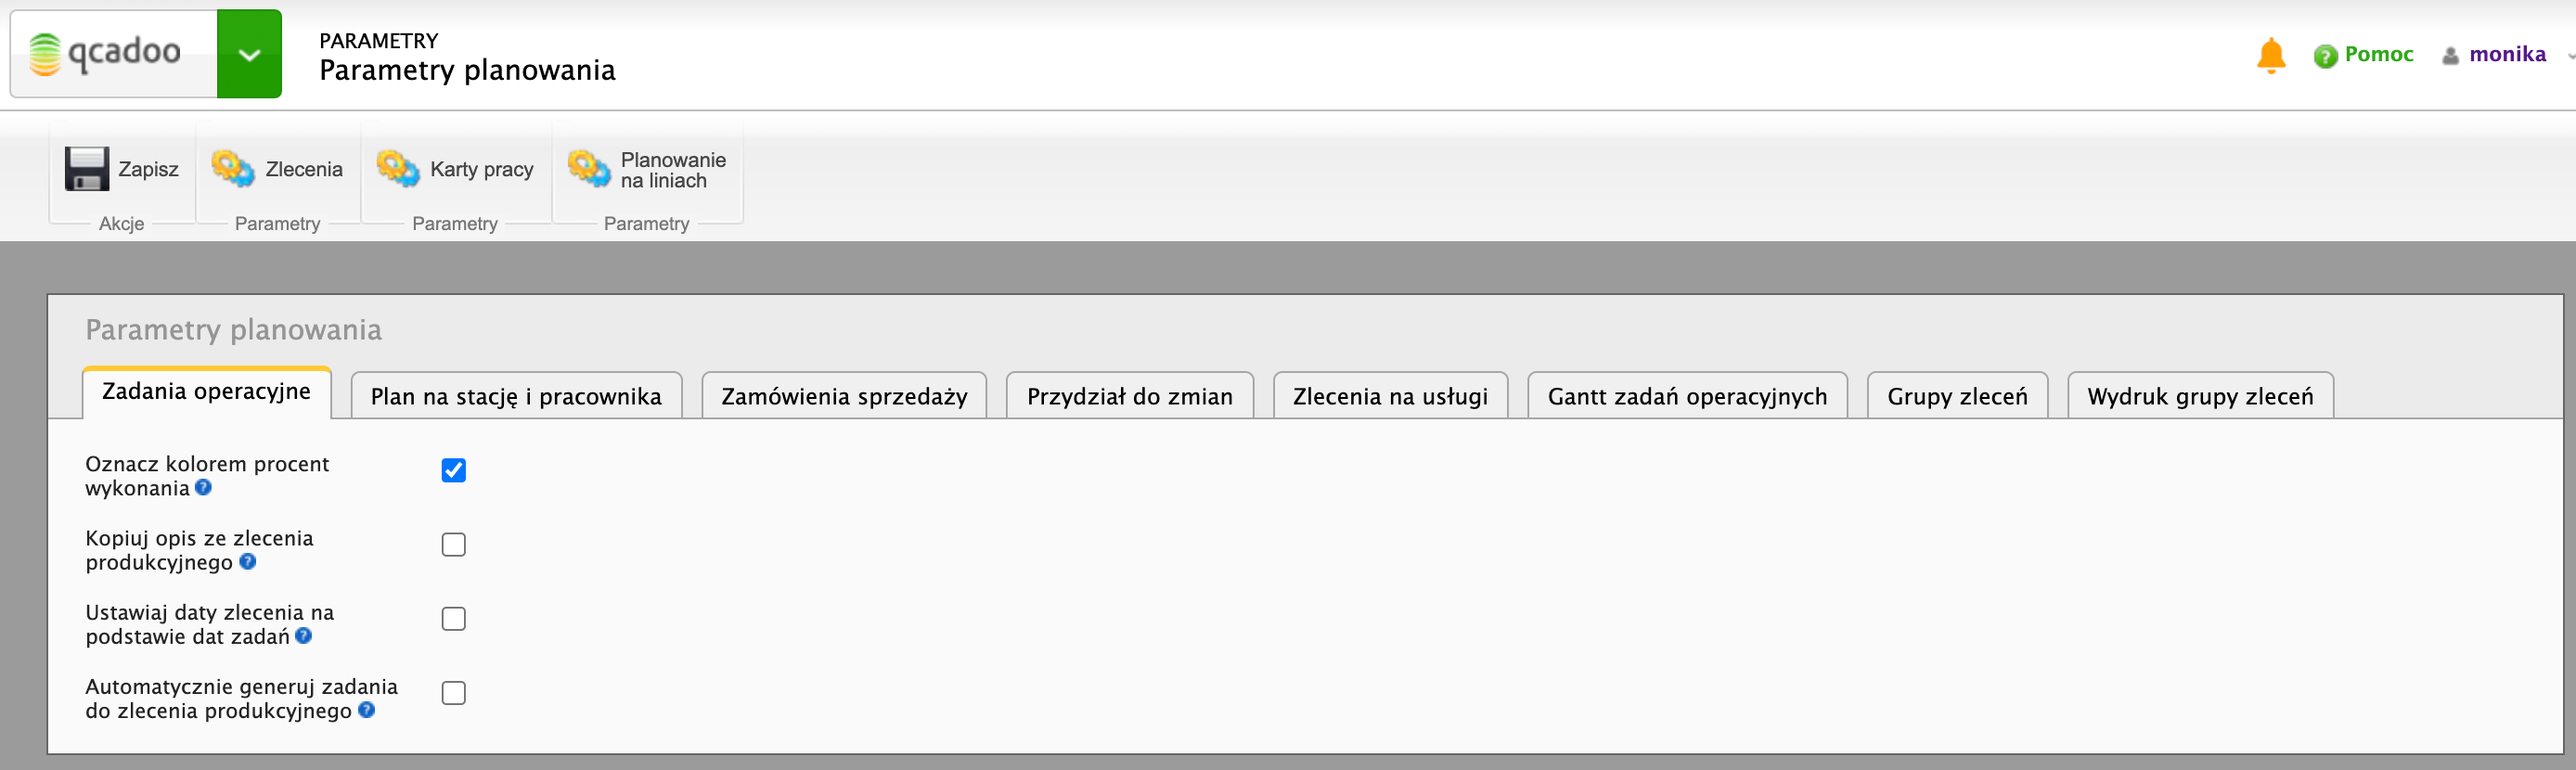
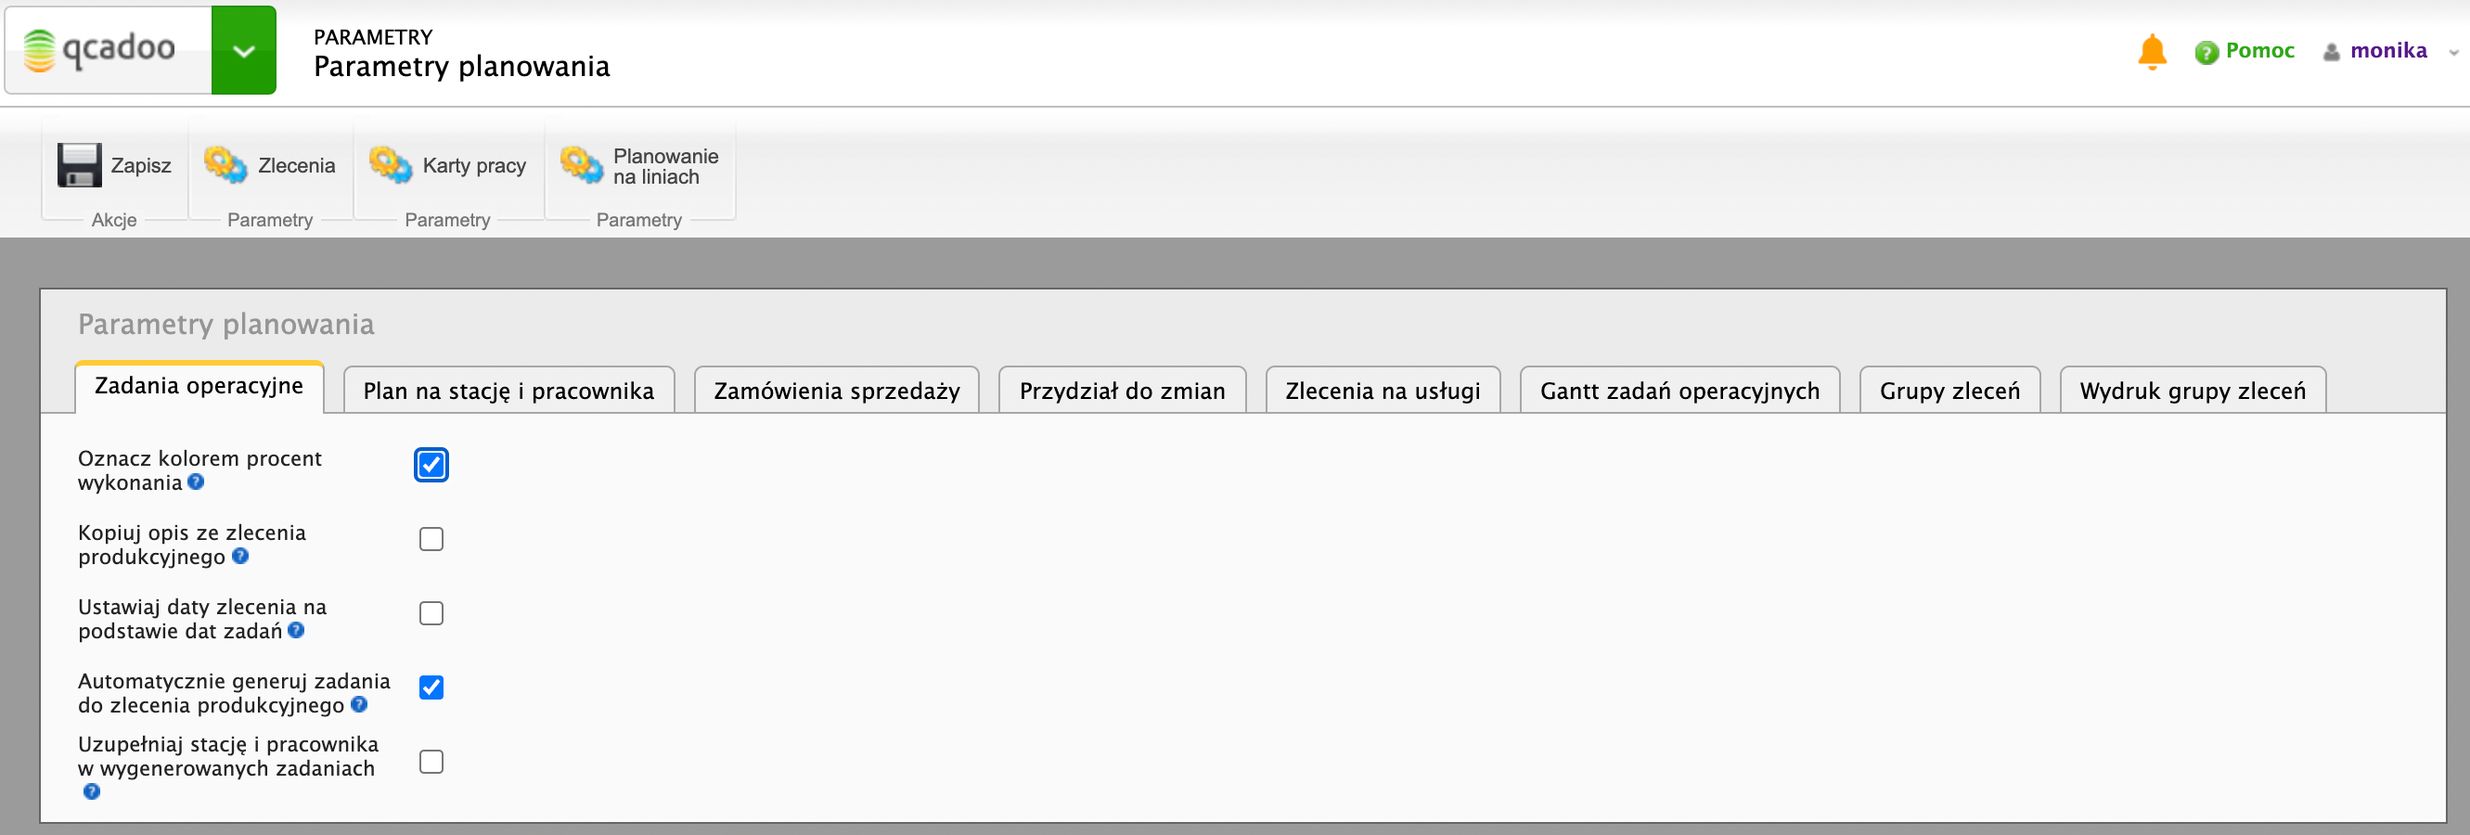
sprint 2.3.0

diff --git a/pages/technologie/technologie/technologie-szczegoly.md b/pages/technologie/technologie/technologie-szczegoly.md
@@ -6,7 +6,7 @@ Do każdego produkowanego w Twojej firmie wyrobu kompletujemy osobną technologi
 
 ## Dodanie nowej technologii
     
-**TECHNOLOGIE > Technologie** {% include inline_image.html file="newIcon24.png" alt="Przycisk Dodaj nową technologię" %} **Dodaj nowy**
+**Technologie > Technologie** {% include inline_image.html file="newIcon24.png" alt="Przycisk Dodaj nową technologię" %} **Dodaj nowy**
 
 {% include lightbox.html file="technologie-technologia-główna.png" alt="Formularz technologii" caption="Formularz technologii" class="float-right" %}
 
@@ -83,7 +83,7 @@ Po zaznaczeniu operacji w drzewie uzupełnione zostają tabelki z produktami wej
 Produkt wejściowy możesz oznaczyć dodatkowym [typem](/typy-produktu-wejsciowego). Niesie to następujące korzyści: 
 - pracownik lepiej potrafi zidentyfikować surowiec zużywany
 - możesz zapisać technologię szablonową, gdy nie znamy dokładnego indeksu materiału. Wiesz np. że będziesz zużywać blachę i w jakiej ilości, ale nie wiesz dokładnie, którą. Takie zapisanie produktu wejściowego, z samym typem i ilością, pozwoli dodatkowo na przygotowanie kalkulacji kosztów i ustalenie wyceny w oparciu o średnią cenę zapisaną w typie produktu wejściowego technologii
-- jeśli przygotowujesz technologię dla rodziny produktu możesz wskazać, że dla danego typu produktu wejściowego, w zależności od grupy rozmiarowej mają być używane różne surowce.
+- jeśli przygotowujesz technologię dla rodziny produktu możesz wskazać, że dla danego typu produktu wejściowego, w zależności od grupy rozmiarowej mają być używane różne surowce (albo ten sam surowiec, ale w zależności od grupy rozmiarowej - w innej ilości).
 
 #### Różne produkty wejściowe technologii w zależności od rozmiarów
 
@@ -249,6 +249,11 @@ O nieprawidłowościach poinformujemy Cię komunikatami. Mogą pojawić się nas
 
 5. **"Produkt wyjściowy końcowej operacji, musi być taki sam jak produkt dla którego zdefiniowano technologię."** --> oznacza to, że produkt wyjściowy najwyższej operacji w drzewie nie zgadza się z produktem, dla którego technologie budujesz (uzupełniony w zakładce Główna). Ustal, który z tych produktów jest prawidłowy i popraw dane. Jeśli będziesz poprawiać produkt w zakładce Główna, to zwróć uwagę, że na jego podstawie został nadany numer i nazwa. Zmiana produktu tych danych nie zmieni. Zatem polecam najpierw wyczyścić numer i nazwę, a dopiero wybrać nowy produkt - numer i nazwa zostaną na nowo określone.
 
+6. **Produkty wg rozmiarów możemy podać tylko gdy technologia budowana jest na rodzinę produktu.** --> oznacza to, że produkt, dla którego tworzona jest technologia nie jest rodziną produktu. A tylko dla rodziny możemy rozpisać produkty wg rozmiaru. Ustal, czy produkt na pewno ma być rodziną, jeśli tak, to zmień wartość pola "Reprezentuje" w produkcie na "rodzinę produktu". Jeśli jest to konkretny produkt, to usuń w technologii produkt wejściowy z Rozmiar = tak. Albo odznacz w nim parametr: Różne produkty w różnych rozmiarach. I jeszcze jak do tego mogło dojść:
+- albo w trakcie tworzenia technologii została zmieniona wartość pola Reprezentuje w produkcie
+- albo technologia produktu rodziny została skopiowana przy okazji tworzenia technologii na konkretny produkt 
+- albo technologia produktu rodziny została wykorzystana do utworzenia nowych, na konkretne produkty, z poziomu generatora
+
 
 Jeśli mamy pewność wprowadzonych danych możemy od razu nadać jej status {% include inline_image.html file="startIcon24.png" alt="Akceptacja" %} **Zaakceptowana**. Tylko zaakceptowane technologie mogą zostać użyte w zleceniu produkcyjnym.
 
@@ -293,6 +298,18 @@ W tabeli operacji uzupełniła się informacja o liście. Jeśli zaznaczysz tą 
 ## Zakładka "Minimalna ilość" ##
     
 W tej zakładce wpisujemy minimalną ilość jaką opłaca się nam produkować. Jest to istotne z punktu widzenia Zlecenia produkcyjnego, ponieważ jeśli uruchomimy zlecenie na mniejszą ilość niż opłacalna, program poinformuje nas o tym, aby ostrzec przed popełnieniem ewentualnego błędu.
+
+## Dodatkowe opcje 
+
+W widoku szczegółów technologii dostępne są następujące dodatkowe opcje:
+
+1. **Generuj strukturę wyrobu** - funkcja rozrysuje drzewo technologii, łącznie z produktami wejściowymi, działami, normami czasowymi. Jeśli dla produktów wejściowych istnieją technologie, to zostaną one podpięte do drzewa jak technologie na komponent i cała struktura będzie prezentowała pełną produkcję, od wytworzenia wszelkich komponentów aż po uzyskanie produktu finalnego danej technologii. Funkcja dostępna dla technologii sprawdzonej i zaakceptowanej.
+
+2. **Zatwierdź szablon** - tworzona przez Ciebie technologia może być szablonem, który inny pracownicy wykorzystają do tworzenia technologii właściwych. Zaznacz pole **szablon** w zakładce Główna, a po ukończeniu tworzenia kliknij przycisk **Zatwierdź szablon**. Dzięki temu nie będzie można technologii edytować (aby była możliwość trzeba kliknąć przycisk **Przejdź do edycji szablonu**). Pamietaj, że szablon może być zatwierdzony nawet wówczas, gdy technologia nie jest kompletna - np. produkt wejściowy może zawierać tylko typ produktu wejściowego i ilość.
+
+3. **Pokaż ceny** - funkcja pozwala na podejrzenie jakie są koszty materiałów zawartych w technologii. Źródłem danych są koszty produktu - tu zebrane są do jednej tabeli, więc łatwo je przeanalizować.
+
+4. **Utwórz kartę modelu** - funkcja tworzy [kartę modelu](/karta-modelu) na produkt finalny technologii w ilości 1. Wystarczy tylko wygenerować i wydrukować.
 
 ---
 

diff --git a/pages/parametry/parametry-ogolne/parametry-dashboard.md b/pages/parametry/parametry-ogolne/parametry-dashboard.md
@@ -36,11 +36,13 @@ Zatwierdzona produkcja, to ta ilość wyprodukowana, która pochodzi z zaakcepto
 
 5. **Pokaż opis zlecenia lub zadania** - zaznacz parametr jeśli chcesz, aby na kafelku pojawiał się opis zlecenia lub zadania operacyjnego. Wówczas, nawet, gdy opis nie jest wypełniony, na kafelku pojawi się labelka 'opis'. 
 
-6. **Parametry dodawania zleceń i zadań** - ich wypełnienie jest niezbędne, gdy chcesz korzystać z szybkiego dodawania zleceń / zadań z dashboardu wraz z tworzeniem technologii w tle. Uzupełnij:
+6. **Sortowanie zleceń** - wskaż czy chcesz mieć poukładane zlecenia na dashboardzie wg daty rozpoczęcia czy daty zakończenia
+
+7. **Parametry dodawania zleceń i zadań** - ich wypełnienie jest niezbędne, gdy chcesz korzystać z szybkiego dodawania zleceń / zadań z dashboardu wraz z tworzeniem technologii w tle. Uzupełnij:
 - _operacja_ - pole będzie aktywne, gdy na dashboardzie będą widoczne zlecenia produkcyjne i zlecenia będą z niego dodawane. Zakładamy, że utworzymy dla Ciebie w tle jednooperacyjną technologię. Wskaż jaka operacja ma być w niej uzupełniona (jeśli używasz tej opcji, to zapewne nie interesuje Cię wyodrębnianie każdej czynności, jaka jest konieczna do realizacji w procesie produkcyjnym. Załóż [operację](/operacje) bardzo ogólną, np. produkcja i ją podepnij w parametrach).
 - _magazyn pobrania surowców_ - wskaż z jakiego magazynu pobierasz surowce do produkcji. Uzupełnimy nim technologię, którą założymy do zlecenia dodawanego z dashboardu
 - _magazyn przyjmowania wyrobów_ - wskaż na jaki magazyn będziesz przyjmował wytworzone wyroby. Uzupełnimy nim technologię, którą założymy do zlecenia dodawanego z dashboardu
 
-{:start="7"}
+{:start="8"}
 
-7. **Przyciski szybkiego wybierania** - w tabeli znajdziesz listę przycisków, z których możesz wybrać maksymalnie 6. Pokażemy je na dashboardzie - dzięki temu szybko będziesz mógł przejść do ulubionych funkcjonalności. Wejdź do szczegółów danego przycisku (wiersza w tabeli) i zaznacz parametr _Widoczność_. Możesz ponadto ustawić kolejność prezentacji przycisków - zaznacz wiersz i przesuń w odpowiednie miejsce strzałką umieszczoną nad tabelą. Przyciski na dashboardzie umieszczone są w dwóch kolumnach, po 3 elementy (wypełniamy pierwszą kolumnę i przechodzimy dopiero do kolejnej - jeśli wybierzesz 4 elementy, to będziesz mieć 3 przyciski w lewej kolumnie i 1 w prawej). 
+8. **Przyciski szybkiego wybierania** - w tabeli znajdziesz listę przycisków, z których możesz wybrać maksymalnie 6. Pokażemy je na dashboardzie - dzięki temu szybko będziesz mógł przejść do ulubionych funkcjonalności. Wejdź do szczegółów danego przycisku (wiersza w tabeli) i zaznacz parametr _Widoczność_. Możesz ponadto ustawić kolejność prezentacji przycisków - zaznacz wiersz i przesuń w odpowiednie miejsce strzałką umieszczoną nad tabelą. Przyciski na dashboardzie umieszczone są w dwóch kolumnach, po 3 elementy (wypełniamy pierwszą kolumnę i przechodzimy dopiero do kolejnej - jeśli wybierzesz 4 elementy, to będziesz mieć 3 przyciski w lewej kolumnie i 1 w prawej). 

diff --git a/pages/planowanie/zlecenia-produkcyjne/zlecenia-produkcyjne.md b/pages/planowanie/zlecenia-produkcyjne/zlecenia-produkcyjne.md
@@ -219,7 +219,7 @@ Więcej informacji znajdziesz [tutaj](/ceny-materialow-dla-zlecenia)
 
 14. **przycisk Śledzenie partii** - jedno słowo - traceability. Chcesz więcej? Odsyłam do [dokumentacji](/sledzenie-partii-zlecenia).
 
-15. **przycisk Dostępność surowców** - pozwala na analizę stanów magazynowych surowców potrzebnych do produkcji. Sprawdzisz stan na magazynach, z których zaplanowano rozchód, ale też na pozostałych magazynach zakładu - na wypadek, gdyby trzeba było produktu poszukiwać.
+15. **przycisk Dostępność surowców** - pozwala na analizę stanów magazynowych surowców potrzebnych do produkcji. Sprawdzisz stan na magazynach, z których zaplanowano rozchód, ale też na pozostałych magazynach zakładu - na wypadek, gdyby trzeba było produktu poszukiwać. Możesz z tego miejsca przejść też do listy zasobów na magazynie. Dzięki temu ustalisz szczegóły jak: dostępne partie, lokalizacja (miejsca składowania), data ważności zasobów itp.
 
 16. **przycisk Wydania wewnętrzne** - temat wydań wewnętrznych omówiony jest [tutaj](/wydania-wewnetrzne.html). Z tego poziomu możesz zobaczyć wydania utworzone dla danego zlecenia
 
@@ -246,6 +246,7 @@ W jaki sposób przekazać informację pracownikom o tym co mają wykonać:
 2. [karty pracy](/karty-pracy) - dostępne są dwa szablony wydruku. Dodatkowo możliwa jest ich konfiguracja w [parametrach](/parametry-karty-pracy).
 3. wyeksportowana lista zleceń - poukrywaj zbędne kolumny i [przerzuć dane go Excela lub PDFa](/eksport-danych), i w takiej formie przekaż dane pracownikom 
 4. Gantt - daj pracownikom dostęp do qcadoo i pokaż jak działa [planowanie na liniach](//planowanie-na-liniach) (jeśli planujesz całe zlecenia) lub [Gantt zadań operacyjnych](/gantt-zadan-operacyjnych) (jeśli planujesz każdą operację do wykonania)
+5. [dashboard](/dashboard) - wskaż w [parametrach](/parametry-dashboard) czy chcesz widzieć zadania czy zlecenia i zdecyduj którzy użytkownicy mają mieć dostęp pełen (łącznie z edycją zlecenia), a którzy w formie ograniczonej (tylko z przesuwaniem między obszarami, przejściem do terminala i wydrukiem etykiet).
 
 
 ## Efekty raportowania wykonanej produkcji

diff --git a/pages/planowanie/przydzial-do-zmian.md b/pages/planowanie/przydzial-do-zmian.md
@@ -7,7 +7,7 @@ Dzięki tej funkcji możesz rozplanować przydział pracowników do zmian na lin
 
 ## Dodanie nowego przydziału do zmian
 
- **PLANOWANIE Przydział do zmian** {% include inline_image.html file="newIcon24.png" alt="Przycisk Dodaj nowy wydruk" %} **Dodaj nowy**
+ **Planowanie > Przydział do zmian** {% include inline_image.html file="newIcon24.png" alt="Przycisk Dodaj nowy wydruk" %} **Dodaj nowy**
 
 {% include lightbox.html file="Planowanie-%20przydzia%C5%82%20do%20zmian-%20G%C5%82%C3%B3wna-%20strza%C5%82ki.png" alt="Formularz przydziału do zmian" caption="Formularz przydziału do zmian" class="float-right" %}
 
@@ -17,7 +17,7 @@ Dzięki tej funkcji możesz rozplanować przydział pracowników do zmian na lin
 4. Następnie kliknij  {% include inline_image.html file="saveIcon24.png" alt="Przycisk Zapisz" %} **Zapisz**, aby zapisać wprowadzone dane.
 5. Teraz przy użyciu przycisku {% include inline_image.html file="newIcon16.png" alt="Przycisk Nowy" %} **Nowy** zacznij wprowadzać pracowników, których chcemy przypisać do danej "Zmiany".
 
-    {% include callout.html content="Jeżeli do tej samej linii produkcyjnej jest przypisanych wielu pracowników, nie musisz wprowadzać każdego z nich osobno. Skorzystaj z funkcji ![](/images/newIcon16.png) **Dodaj wielu pracowników**, która pozwala dodać wielu pracowników na raz." type="info" %}
+{% include callout.html content="Jeżeli do tej samej linii produkcyjnej jest przypisanych wielu pracowników, nie musisz wprowadzać każdego z nich osobno. Skorzystaj z funkcji ![](/images/newIcon16.png) **Dodaj wielu pracowników**, która pozwala dodać wielu pracowników na raz." type="info" %}
 
 {:start="6"}
 6. Po wprowadzeniu wszystkich informacji wybierz {% include inline_image.html file="startIcon24.png" alt="Przycisk Zaakceptuj" %} **Zaakceptuj**.

diff --git a/pages/kalendarze/wyjatki-dla-linii.md b/pages/kalendarze/wyjatki-dla-linii.md
@@ -44,5 +44,15 @@ Teraz wyobraźmy sobie inną sytuację. Mamy bardzo dużo zamówień i niestety 
 
 {% include lightbox.html file="Planowanie-%20wyjatek%20praca.png" alt="Wyjątek typu praca" caption="Wyjątek typu praca" %}
 
+## Powielanie wyjątków
 
+Jeśli codziennie od 10:00 do 10:30 produkcja ma przerwę śniadaniową, albo co poniedziałek między 07:00 a 09:00 wszyscy mają spotkanie organizacyjne, warto zadbać o naniesienie tych informacji do kalendarza. Aby przyspieszyć pracę możesz skorzystać z funkcji powielania wyjątków. Dodaj pierwszy wyjątek, standardowo, tak jak opisano wyżej. I kliknij przycisk {% include inline_image.html file="przyciskPowielWyjatek.png" alt="Przycisk Powiel wyjątek" %} **Powiel wyjątek**
+
+{% include lightbox.html file="kalendarzeWyjatkiDlaLiniiPowielanie.png" alt="Powielanie wyjatku" caption="Powielanie wyjątku" %}
+
+Wskaż:
+- **rodzaj powielenia** - czyli czy dany wyjątek ma występować codziennie, co tydzień, co miesiac, czy co rok
+- **datę zakończenia** - czyli do jakiej daty wyjątek ma zostać założony. Zastanów się, czy warto od razu generować wyjątki do "końca świata". Jeśli okaże się, że za dwa lata przerwa obiadowa będzie krótsza, będziesz miał sporo wyjątków do usunięcia. Lepiej funkcję wykonywać wielokrotnie co jakiś czas.
+
+Wyjątki wygenerują się po kliknięciu przycisku **Wykonaj**.
     

diff --git a/pages/parametry/parametry-planowania/parametry-planowania.md b/pages/parametry/parametry-planowania/parametry-planowania.md
@@ -20,6 +20,7 @@ Stosujemy trzy kolory:
 2. **Kopiuj opis ze zlecenia produkcyjnego** - zaznacz parametr, a opis każdego zadania operacyjnego tworzonego do zlecenia, będzie uzupełniony o opis ze zlecenia produkcyjnego. Może on zatem stanowić połączenie opisu operacji i opisu zlecenia.
 3. **Ustawiaj daty zlelcenia na podstawie dat zadań** - zaznacz parametr, a zmiana dat w zadaniu operacyjnym będzie się wiązała z przeliczeniem dat w powiązanym zleceniu produkcyjnym
 4. **Automatycznie generuj zadania do zlecenia produkcyjnego** - jeśli zaznaczysz parametr to w momencie akceptacji zlecenia produkcyjnego raportowanedo z dokładnością do operacji zostaną wygenerowane zadania operacyjnego. Nie będziesz musiał klikać każdorazowo przycisku: Utwórz zadania operacyjne. Pamiętaj jednak, że zadania operacyjne mogą tworzyć się też na zatwierdzaniu planu na stację roboczą i pracownika - sprawdź [tutaj](/plan-na-stacje-robocza-i-pracownika) czy jest to funkcja dla Ciebie.
+5. **Uzupełniaj stację i pracownika w wygenerowanych zadaniach** - jeśli zaznaczysz parametr, to dla operacji powiązanej z zadaniem ustalimy przypisane stacje. I jeśli jest tylko jedna, to uzupełnimy nią zadanie operacyjne. A jeśli stacja ta ma domyślnego pracownika, to w zadaniu wpiszemy również tego pracownika.
 
 ---
 

diff --git a/pages/planowanie/plany-sprzedazy.md b/pages/planowanie/plany-sprzedazy.md
@@ -168,3 +168,13 @@ Aby móc zamówić dobre materiały do planu i aby móc we właściwy sposób wy
 
 Wskaż **nową technologię** i **zaktualizuj**. W efekcie w zaznaczonych produktach zostanie zmieniona technologia. Zmianę możesz przeprowadzić wielokrotnie, pamiętajac że jednocześnie można aktualizować dane produktów z jednej rodziny.
 
+### Uzupełnij technologię rodziny
+
+Jeśli ująłeś w planie produkty jeszcze zanim przygotowałeś do nich technologię, a korzystasz z technologii na rodzinę produktu, to funkcja uzupełniania technologii bardzo Ci się przyda. Zaznaczając produkty z jednej rodziny, możesz w jednym kroku wypełnić brakującą technologię.
+
+Zaznacz produkty bez technologii, należące do tej samej rodziny i kliknij w przycisk % include inline_image.html file="przyciskUzupelnijTechnologieRodziny.png" alt="Przycisk Uzupełnij technologię rodziny" %} **Uzupełnij technologię rodziny** 
+
+{% include lightbox.html file="planowaniePlanySprzedazyUzupelnijTechnologie.png" alt="Uzupełnianie technologii rodziny produktu" caption="Uzupełnianie technologii rodziny produktu" %} 
+
+Wskaż **Nową technologię** i zapisz przyciskiem **Uzupełnij**.
+

diff --git a/pages/administracja/uzytkownicy.md b/pages/administracja/uzytkownicy.md
@@ -19,3 +19,5 @@ Przypisanie do magazynu pozwoli na ograniczenie danych z menu Magazyn do przypis
 Przypisywanie do pracownika natomiast pozwoli na szybkie przechodzenie z dashboardu do terminala, w celu zaraportowania produkcji do zlecenia, czy zadania.
 
 Przypisanie do zakładu będzie pomocne podczas obsługi działu utrzymania ruchu w qcadoo. Pracownik przypisany do zakładu ma zakład z automatu uzupełniony w kontekście zdarzeń i zdarzeń planowanych i nie musi każdorazowo go uzupełniać, aby ograniczyć widoczne dane.
+
+Przypisanie do linii produkcyjnej pozwoli na ograniczenie widocznych na dashboardzie zleceń do tej linii i na ograniczenie listy stacji roboczych na wykresie Gantta zadań operacyjnych do tych powiązanych z daną linią.
